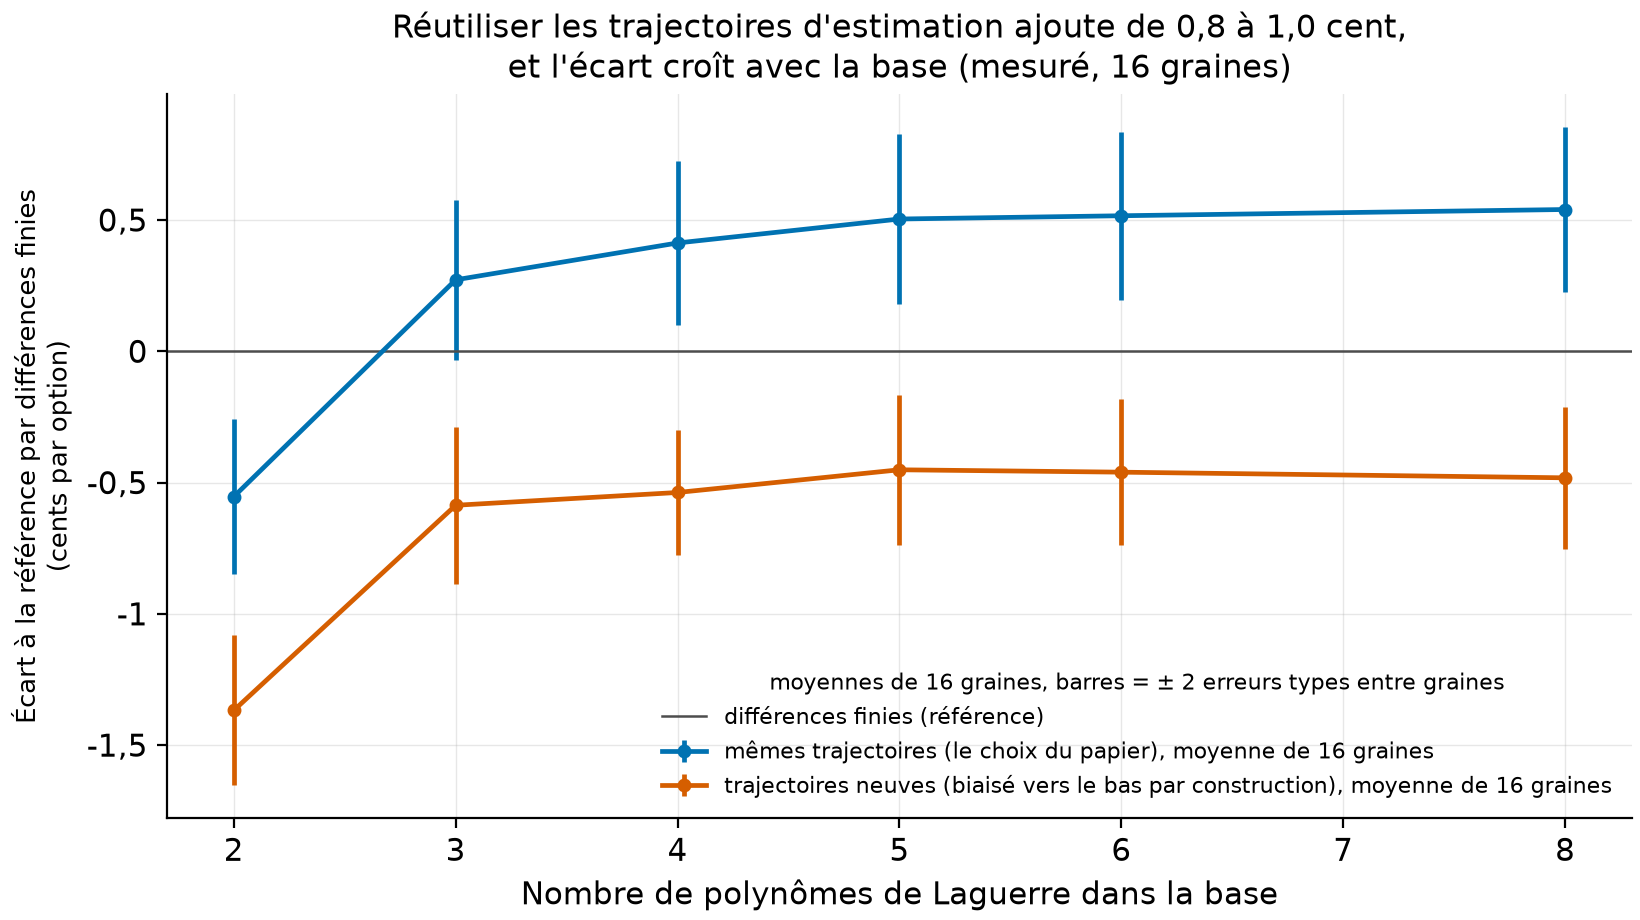
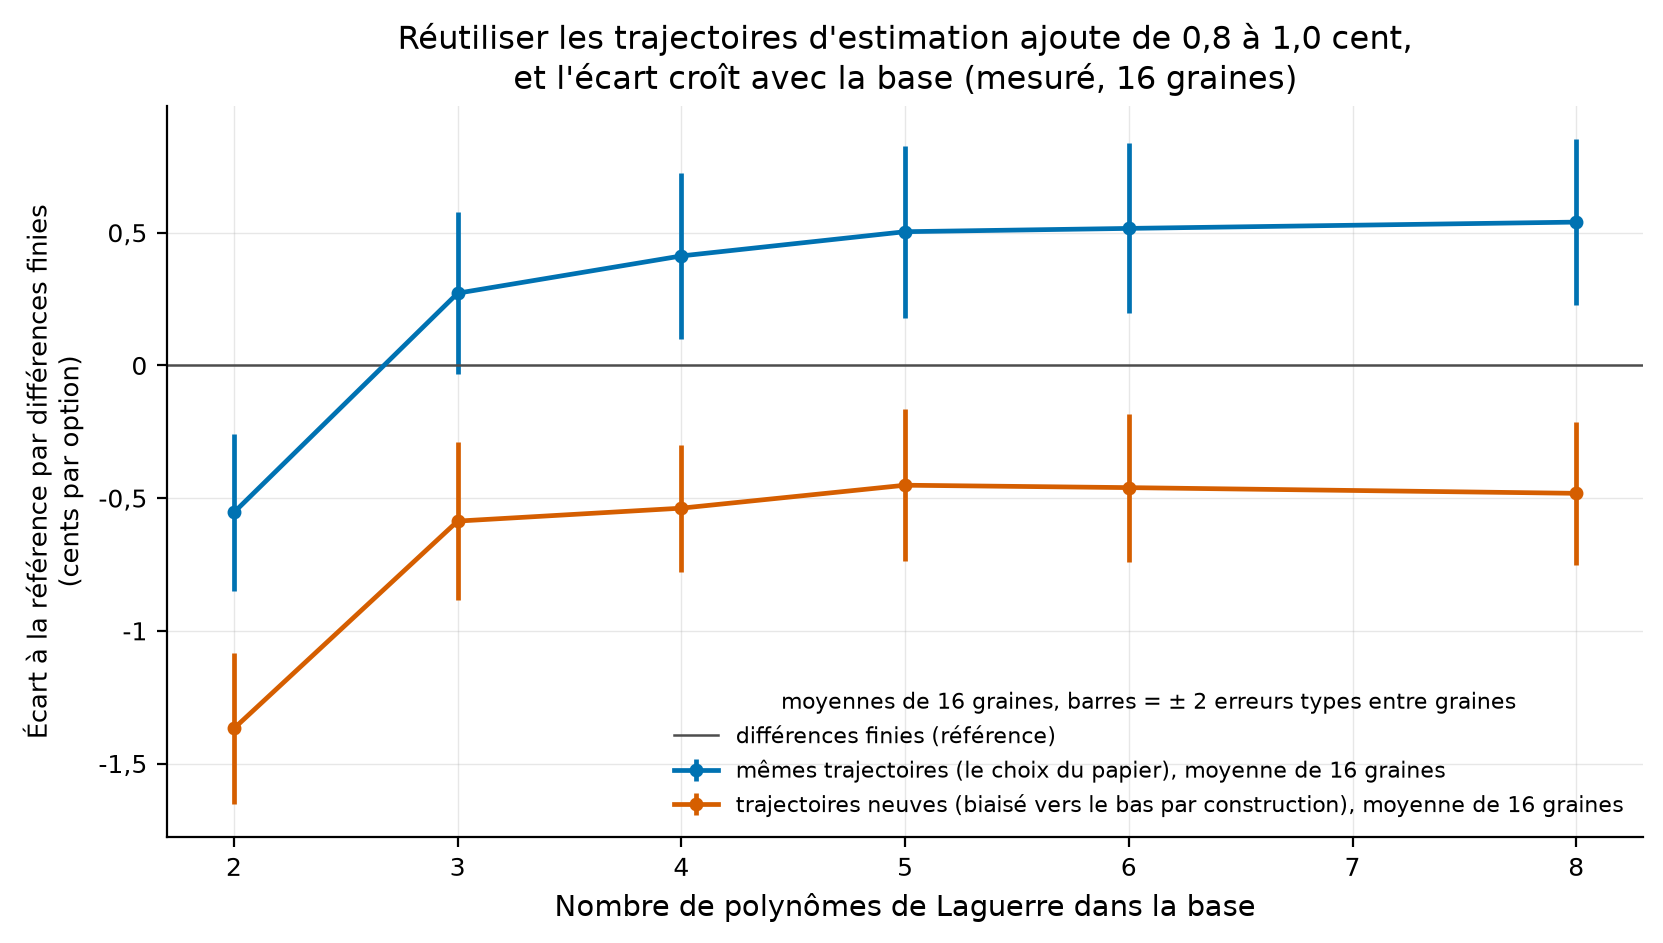
Consommer la feuille de style partagée au lieu de recopier la palette
La palette Okabe-Ito et les réglages de figure étaient recopiés à l'identique dans
chaque dépôt du portefeuille. Une correction de graisse de trait devait donc être faite
une fois par dépôt, et ne l'était jamais.

Le module de figures appelle désormais gv-fintools 0.2.1. Le nom public de la fonction
de réglage ne change pas, si bien qu'aucun appelant n'est touché. Les figures sont
régénérées avec le nouveau style, qui ajoute l'embarquement des polices dans les PDF :
le texte d'une figure reste sélectionnable et cherchable dans le rapport.

diff --git a/src/vop/figures.py b/src/vop/figures.py
@@ -7,23 +7,16 @@ from pathlib import Path
 import matplotlib.pyplot as plt
 import numpy as np
 import pandas as pd
+from gvf.style import OKABE_ITO, appliquer, formateur  # noqa: F401
 
-OKABE_ITO = ["#0072B2", "#E69F00", "#009E73", "#D55E00", "#CC79A7", "#56B4E9", "#F0E442", "#000000"]
+# La palette et les réglages viennent de la couche partagée du portefeuille : les mêmes
+# couleurs et la même virgule décimale dans tous les dépôts, corrigées à un seul endroit.
 
 
 def use_style():
-    import matplotlib as mpl
-    from cycler import cycler
-    from matplotlib.ticker import FuncFormatter
-
-    mpl.rcParams.update({
-        "figure.dpi": 200, "savefig.dpi": 200, "figure.constrained_layout.use": True,
-        "font.size": 11, "axes.titlesize": 12, "axes.prop_cycle": cycler(color=OKABE_ITO),
-        "axes.spines.top": False, "axes.spines.right": False,
-        "axes.grid": True, "grid.alpha": 0.3, "grid.linewidth": 0.5,
-        "legend.frameon": False, "lines.linewidth": 1.7,
-    })
-    return FuncFormatter(lambda v, _: f"{v:g}".replace(".", ","))
+    """Les réglages communs, puis le formateur d'axe en français."""
+    appliquer()
+    return formateur()
 
 
 def fig_convergence(ns: np.ndarray, errors: np.ndarray, dest: Path) -> None:
